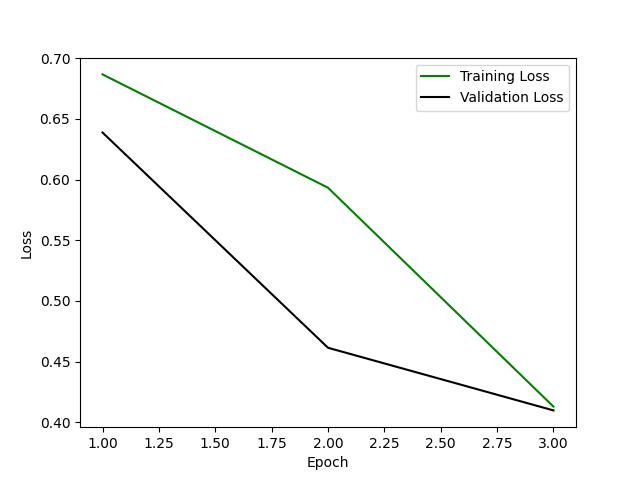
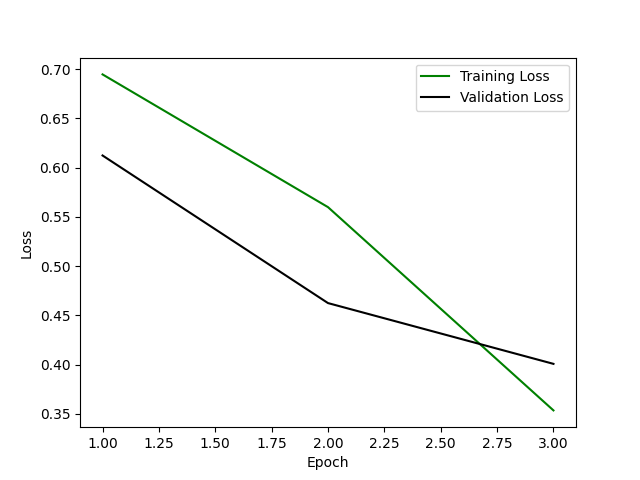
paper a: grid search

diff --git a/paper_b_99_dl_bert_train.py b/paper_b_99_dl_bert_train.py
@@ -32,12 +32,12 @@ MAX_LENGTH = 512  # the maximum sequence length that can be processed by the BER
 SEED = 42  # 42, 1234, 2021
 
 # Hyperparameters
-LEARNING_RATE = 1.9e-5  # 1.5e-5, 2e-5, 3e-5, 5e-5
+LEARNING_RATE = 2.15e-5  # 1.5e-5, 2e-5, 3e-5, 5e-5
 BATCH_SIZE = 16  # 16, 32
 NUM_EPOCHS = 3  # 2, 3, 4, 5
-WEIGHT_DECAY = 0.080  # 0.01 or 0.001
+WEIGHT_DECAY = 0.001  # 0.01 or 0.001
 DROP_OUT_RATE = 0.1  # 0.1 or 0.2
-WARMUP_STEPS = 420  # 0, 100, 1000, 10000
+WARMUP_STEPS = 400  # 0, 100, 1000, 10000
 
 
 def get_device():
@@ -474,28 +474,55 @@ Hyperparameters:
 - Weight Decay: 0.001
 - Dropout Rate: 0.1
 
-------------- Jan 7, 2023 balanced classes -------------
+------------- Jan 5, 2024 with 50% "continue" class -------------
 
 Model: BERT
 
-- Accuracy: 0.825
-- Precision: 0.825
-- Recall: 0.825
-- F1 Score: 0.825
-- AUC-ROC: 0.909
-- Matthews Correlation Coefficient (MCC): 0.650
+- Accuracy: 0.826
+- Precision: 0.826
+- Recall: 0.826
+- F1 Score: 0.826
+- AUC-ROC: 0.893
+- Matthews Correlation Coefficient (MCC): 0.652
 - Confusion Matrix:
               continue  not_continue
-continue           147            27
-not_continue        34           140
+continue           138            29
+not_continue        29           137
 
-continue: Precision = 0.75, Recall = 0.82, F1 = 0.78
-not_continue: Precision = 0.80, Recall = 0.72, F1 = 0.76
+continue: Precision = 0.80, Recall = 0.56, F1 = 0.66
+not_continue: Precision = 0.66, Recall = 0.86, F1 = 0.75
 
 Hyperparameters:
-- Learning Rate: 1.9e-05
+- Learning Rate: 1.95e-05
 - Batch Size: 16
-- Warmup Steps: 420
+- Warmup Steps: 390
+- Number of Epochs: 3
+- Weight Decay: 0.002
+- Dropout Rate: 0.1
+---
+- Seed: 42
+
+
+Model: BERT
+
+- Accuracy: 0.846
+- Precision: 0.849
+- Recall: 0.846
+- F1 Score: 0.845
+- AUC-ROC: 0.903
+- Matthews Correlation Coefficient (MCC): 0.694
+- Confusion Matrix:
+              continue  not_continue
+continue           174            21
+not_continue        39           155
+
+continue: Precision = 0.80, Recall = 0.66, F1 = 0.72
+not_continue: Precision = 0.71, Recall = 0.83, F1 = 0.77
+
+Hyperparameters:
+- Learning Rate: 2.15e-05
+- Batch Size: 16
+- Warmup Steps: 400
 - Number of Epochs: 3
 - Weight Decay: 0.001
 - Dropout Rate: 0.1

diff --git a/paper_a_x_dl_bert_train.py b/paper_a_x_dl_bert_train.py
@@ -78,7 +78,7 @@ print(f"\nUsing device: {str(device).upper()}\n")
 data_file = "shared_data/dataset_1_4_sliced.jsonl"
 
 # Load BERT model
-model = BertForSequenceClassification.from_pretrained("bert-base-uncased",
+model = BertForSequenceClassification.from_pretrained("bert-large-uncased",
                                                       num_labels=len(LABEL_MAP),
                                                       hidden_dropout_prob=DROP_OUT_RATE)
 # Move model to device
@@ -315,7 +315,7 @@ plt.plot(range(1, NUM_EPOCHS + 1), val_losses, label="Validation Loss", color="b
 plt.xlabel("Epoch")
 plt.ylabel("Loss")
 plt.legend()
-plt.savefig("images/paper_b_1_dl_bert_model_losses.png")
+plt.savefig("images/paper_a_1_dl_bert_model_losses.png")
 plt.close()
 
 """
